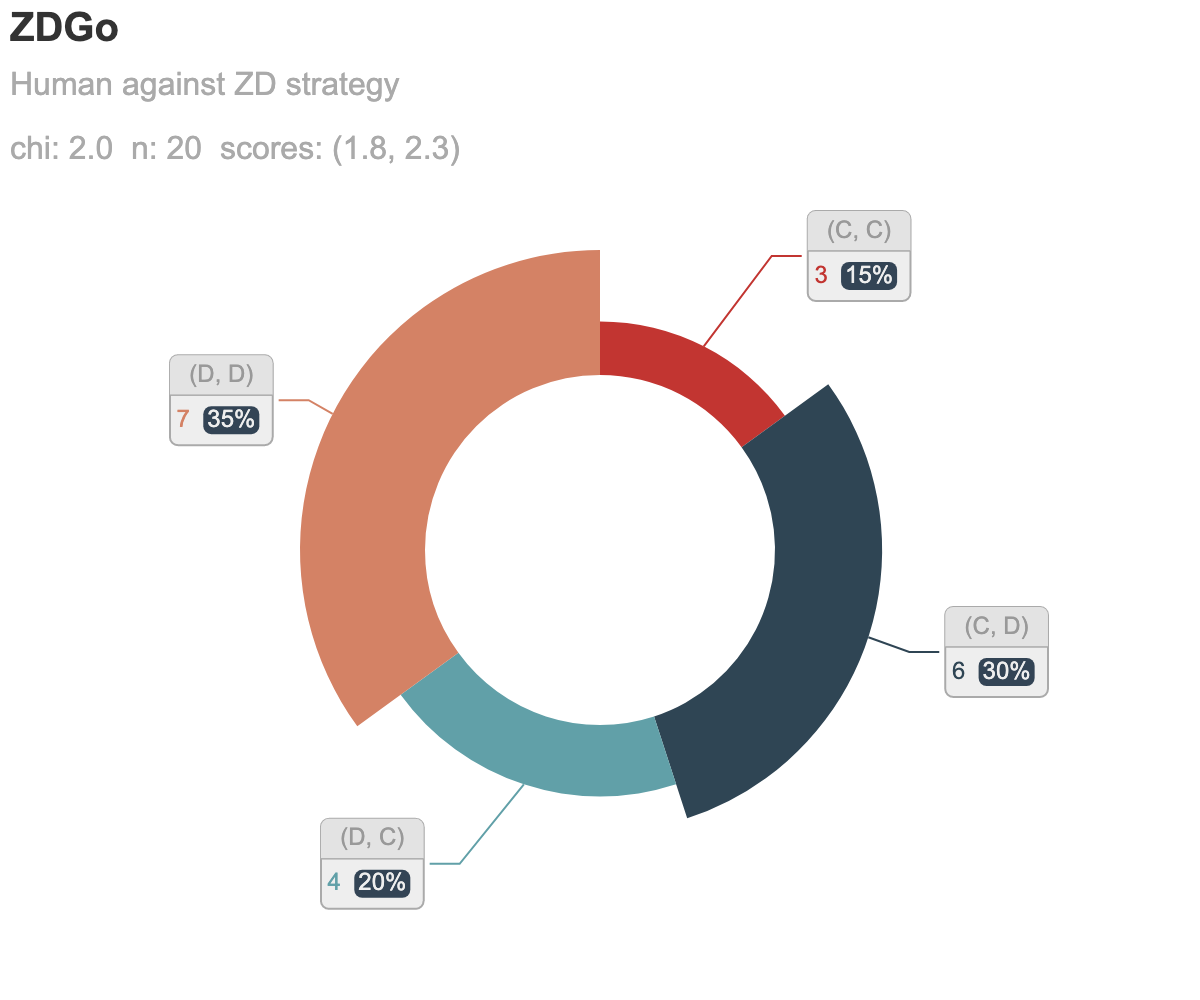
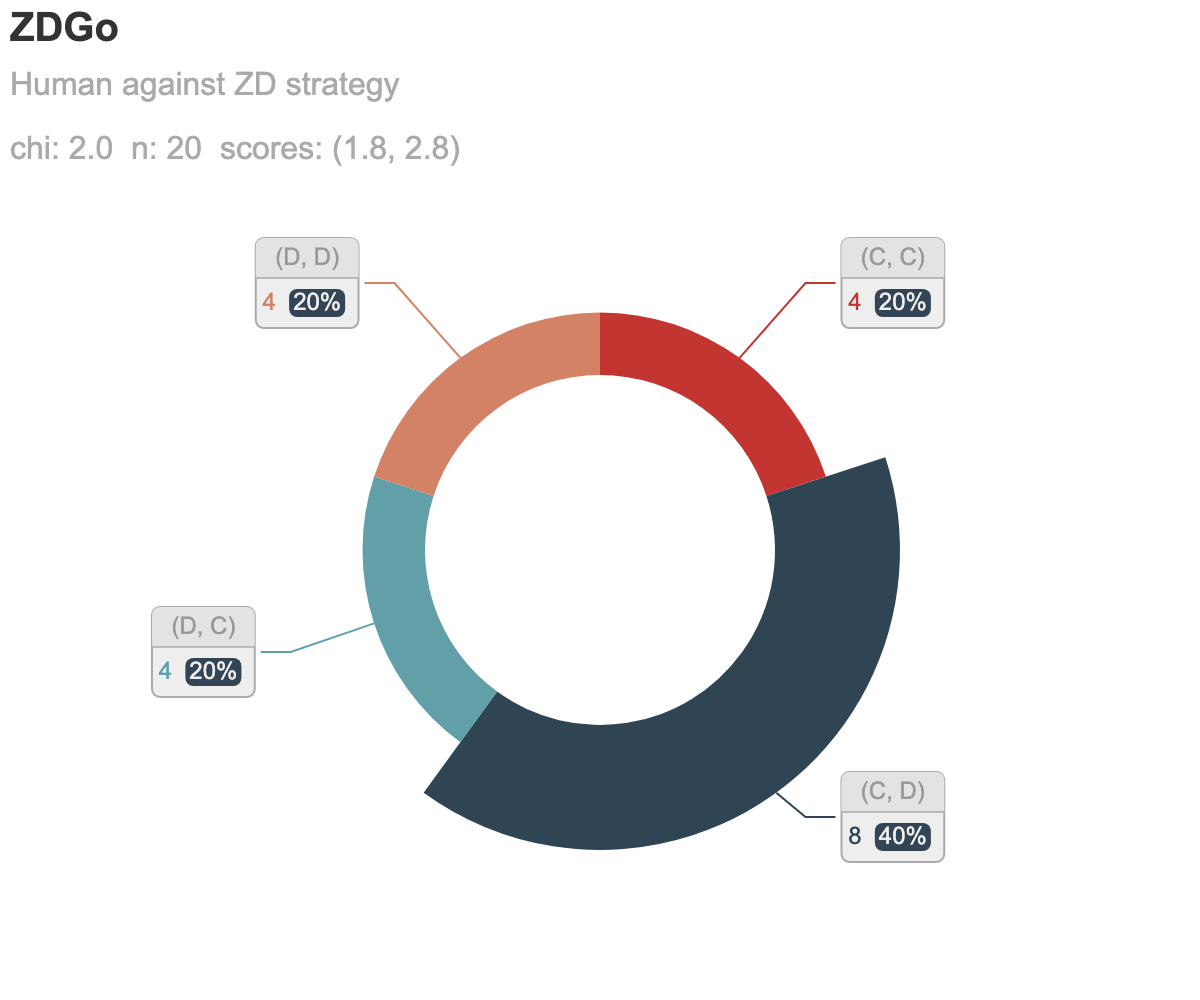
Add files via upload

Changed region(s): [[0.1233, 0.217, 0.8942, 0.899], [0.6475, 0.186, 0.8017, 0.341], [0.1233, 0.589, 0.2158, 0.713]]

diff --git a/scripts/figures/ZDGo/Win-Stay_Lose-Shift.html b/scripts/figures/ZDGo/Win-Stay_Lose-Shift.html
@@ -7,11 +7,11 @@
 
 </head>
 <body>
-    <div id="a3d30952103b45079dee9446e6bc0c5f" class="chart-container" style="width:600px; height:500px;"></div>
+    <div id="04d57f9acf30477083bf658c177a2145" class="chart-container" style="width:600px; height:500px;"></div>
     <script>
-        var chart_a3d30952103b45079dee9446e6bc0c5f = echarts.init(
-            document.getElementById('a3d30952103b45079dee9446e6bc0c5f'), 'white', {renderer: 'canvas'});
-        var option_a3d30952103b45079dee9446e6bc0c5f = {
+        var chart_04d57f9acf30477083bf658c177a2145 = echarts.init(
+            document.getElementById('04d57f9acf30477083bf658c177a2145'), 'white', {renderer: 'canvas'});
+        var option_04d57f9acf30477083bf658c177a2145 = {
     "animation": true,
     "animationThreshold": 2000,
     "animationDuration": 1000,
@@ -54,19 +54,19 @@
             "data": [
                 {
                     "name": "(C, C)",
-                    "value": 4.0
+                    "value": 14.0
                 },
                 {
                     "name": "(C, D)",
-                    "value": 8.0
+                    "value": 402.0
                 },
                 {
                     "name": "(D, C)",
-                    "value": 4.0
+                    "value": 183.0
                 },
                 {
                     "name": "(D, D)",
-                    "value": 4.0
+                    "value": 401.0
                 }
             ],
             "radius": [
@@ -173,7 +173,7 @@
     "title": [
         {
             "text": "ZDGo",
-            "subtext": "Human against ZD strategy\n\nchi: 2.0  n: 20  scores: (1.8, 2.8)",
+            "subtext": "Win-Stay Lose-Shift against ZD strategy\n\nchi: 3.0  n: 1000  scores: (1.358, 2.453)",
             "padding": 5,
             "itemGap": 10,
             "textStyle": {
@@ -185,7 +185,7 @@
         }
     ]
 };
-        chart_a3d30952103b45079dee9446e6bc0c5f.setOption(option_a3d30952103b45079dee9446e6bc0c5f);
+        chart_04d57f9acf30477083bf658c177a2145.setOption(option_04d57f9acf30477083bf658c177a2145);
     </script>
 </body>
 </html>
